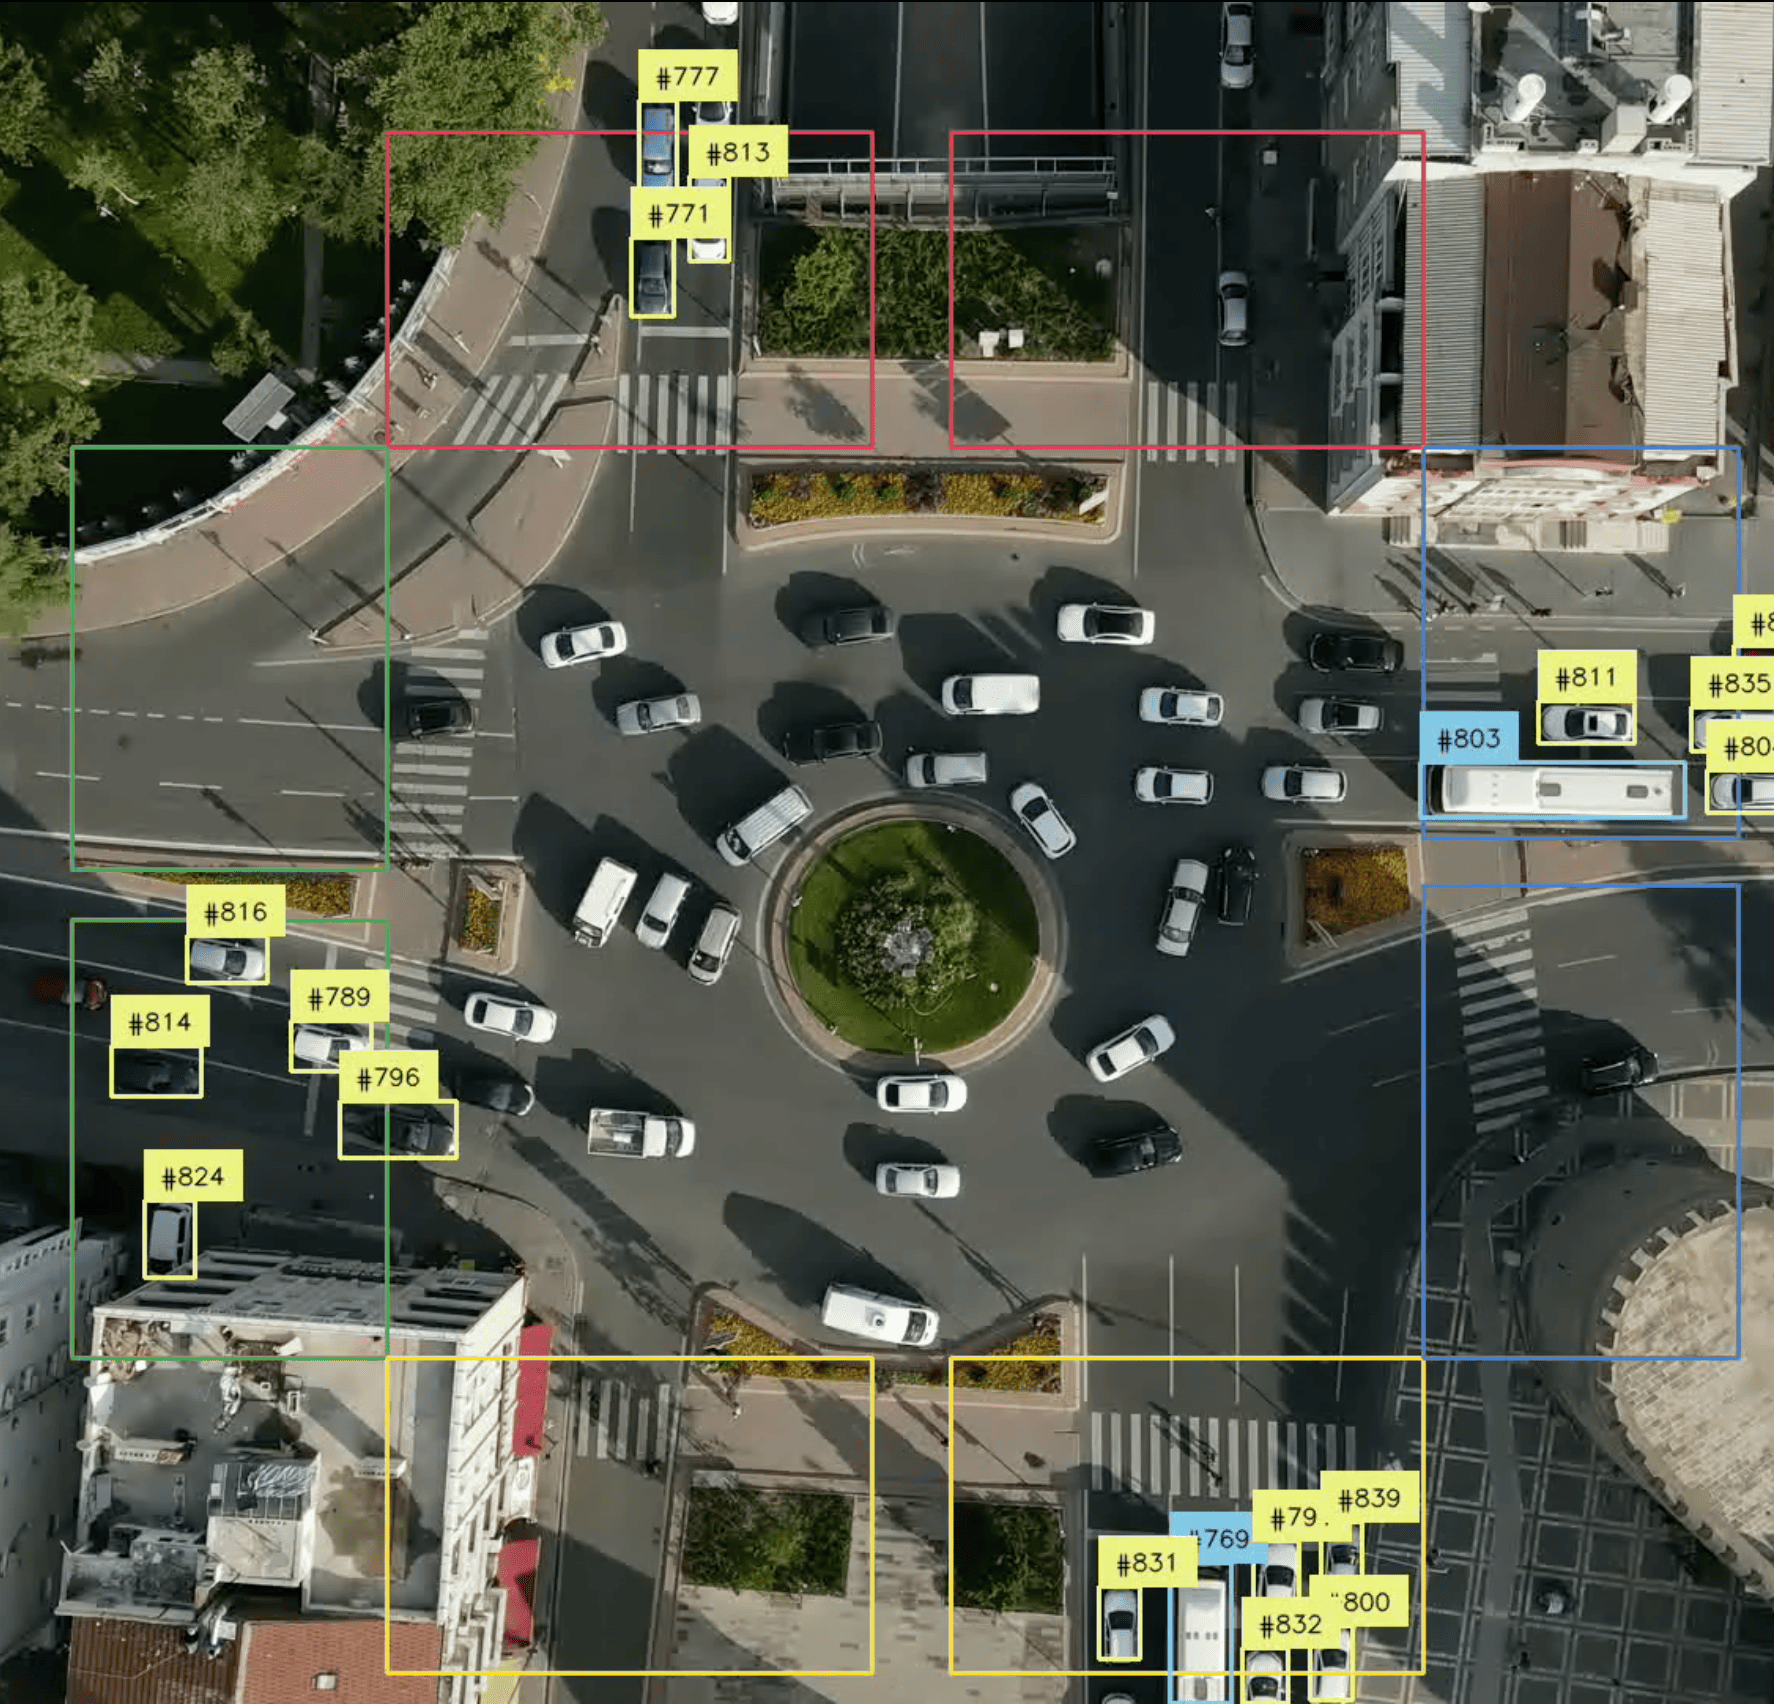
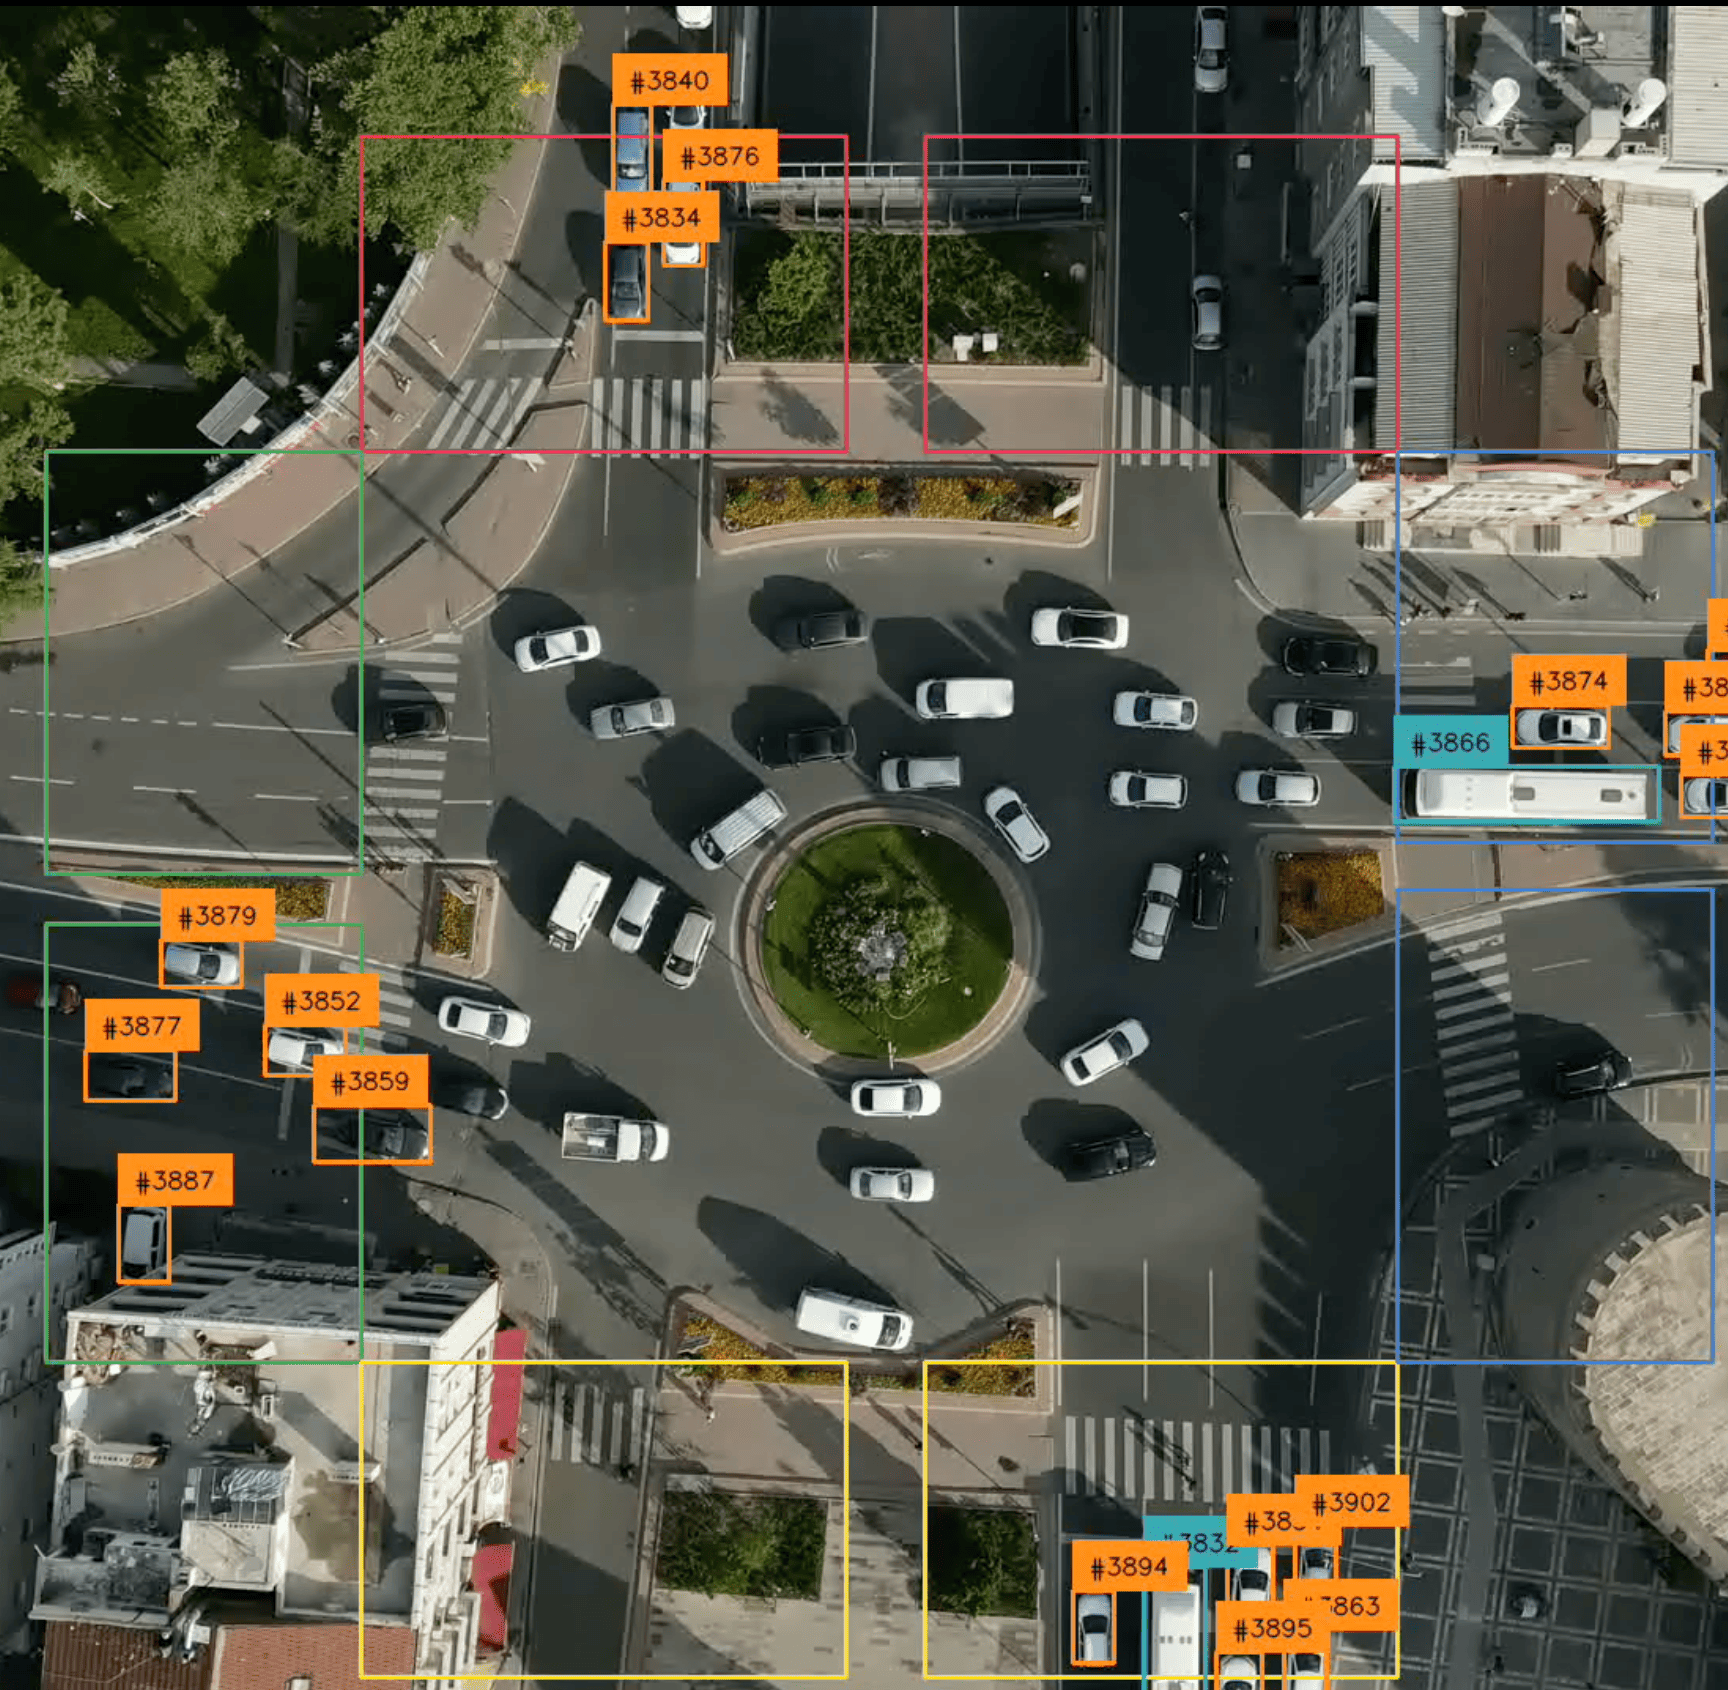
Implement second video detection

diff --git a/lib/utils/zone_marker.py b/lib/utils/zone_marker.py
@@ -1,18 +1,53 @@
 import cv2
 import numpy as np
+import supervision as sv
 
 # Load and display the frame
-frame = cv2.imread("../assets/cleanFrame.png")
+# source_video_path = "data/traffic1.mov"
+source_video_path = "data/traffic2.mp4"
+frame_generator = sv.get_video_frames_generator(source_path=source_video_path)
+frame = next(frame_generator, None)
 
-# Define the polygon
+
+def get_coordinates(event, x, y, flags, param):
+    if event == cv2.EVENT_LBUTTONDOWN:
+        print(f"[{x}, {y}]")
+
+
+# # Define the polygon
 # cv2.imshow("Frame", frame)
 # cv2.setMouseCallback("Frame", get_coordinates)
 # cv2.waitKey(0)
 # cv2.destroyAllWindows()
 
-# View the polygon
-polygon = np.array([[1805, 583], [1792, 835], [2188, 838], [2179, 625]])
-cv2.polylines(frame, [polygon], isClosed=True, color=(0, 255, 0), thickness=2)
+# # View the polygon
+
+zoneIn0 = np.array([[77, 65], [56, 99], [160, 150], [186, 115]])
+
+zoneOut0 = np.array([[137, 90], [159, 57], [245, 91], [233, 134]])
+
+zoneIn1 = np.array([[192, 398], [168, 366], [259, 320], [292, 358]])
+
+zoneOut1 = np.array([[63, 337], [98, 379], [170, 336], [118, 289]])
+
+zoneIn2 = np.array([[663, 325], [674, 271], [609, 225], [573, 282]])
+
+zoneOut2 = np.array([[634, 343], [614, 383], [532, 352], [553, 312]])
+
+zoneIn3 = np.array([[601, 77], [578, 60], [450, 87], [489, 141]])
+
+zoneOut3 = np.array([[692, 95], [639, 65], [556, 119], [609, 174]])
+
+cv2.polylines(frame, [
+    zoneIn0,
+    zoneOut0,
+    zoneIn1,
+    zoneOut1,
+    zoneIn2,
+    zoneOut2,
+    zoneIn3,
+    zoneOut3,
+], isClosed=True, color=(0, 255, 0), thickness=2)
 cv2.imshow("Zones", frame)
 cv2.waitKey(0)
 cv2.destroyAllWindows()
